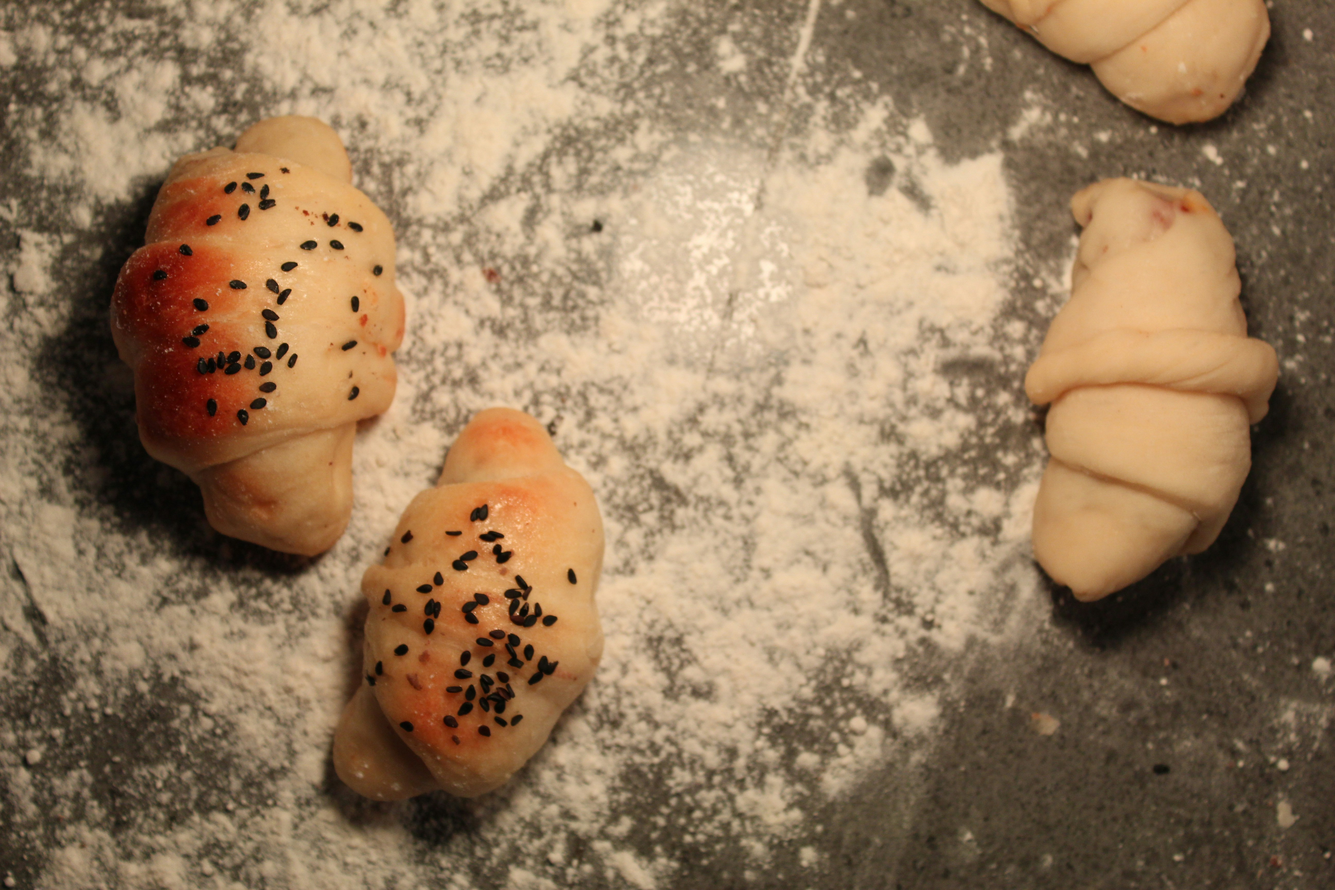
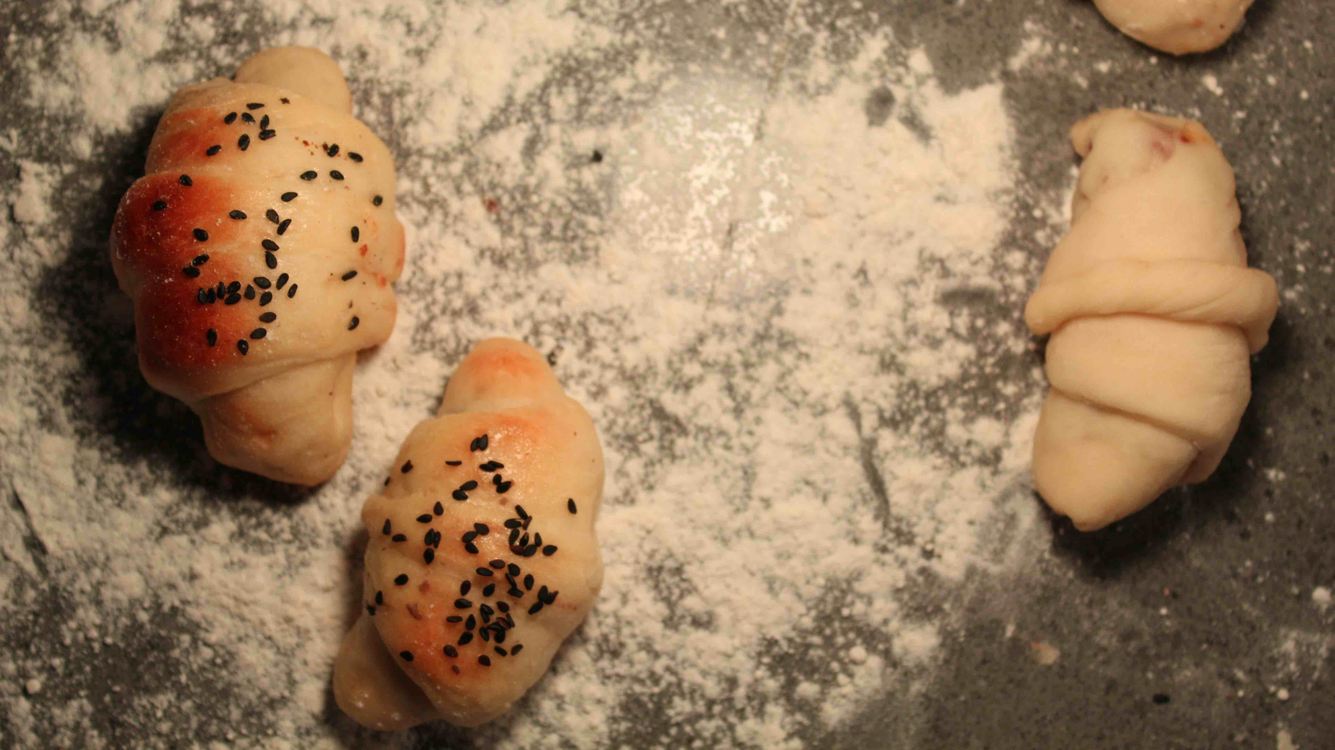
improve lighthouse and accesability

diff --git a/styles.css b/styles.css
@@ -18,7 +18,7 @@
   --color-bg-card-hover: #FFF2E6;
   --color-surface: #FAF5EF;
   --color-text: #2C3E50;
-  --color-text-muted: #7F8C8D;
+  --color-text-muted: #596566;
   --color-border: rgba(44, 62, 80, 0.1);
 
   /* Typography */
@@ -152,7 +152,7 @@ ul { list-style: none; }
 
 .btn-primary {
   background: linear-gradient(135deg, var(--color-primary), var(--color-primary-dark));
-  color: #fff;
+  color: dark-color-secondary;
   box-shadow: 0 4px 20px rgba(232, 145, 58, 0.3);
 }
 

diff --git a/index.html b/index.html
@@ -553,6 +553,6 @@
     </div>
   </footer>
 
-  <script src="script.js"></script>
+  <script src="script.js" ></script>
 </body>
 </html>
